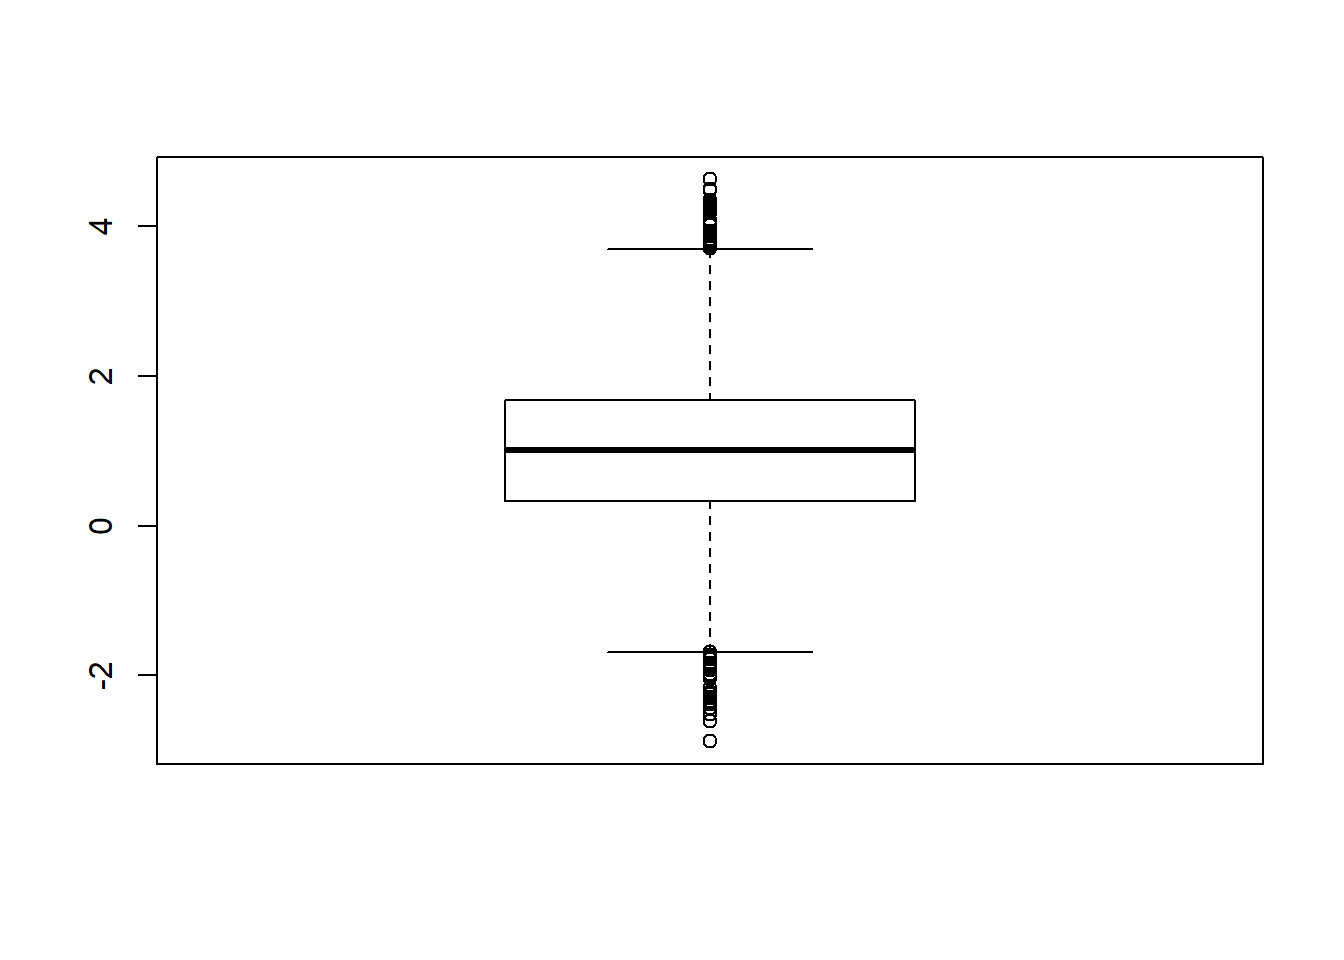
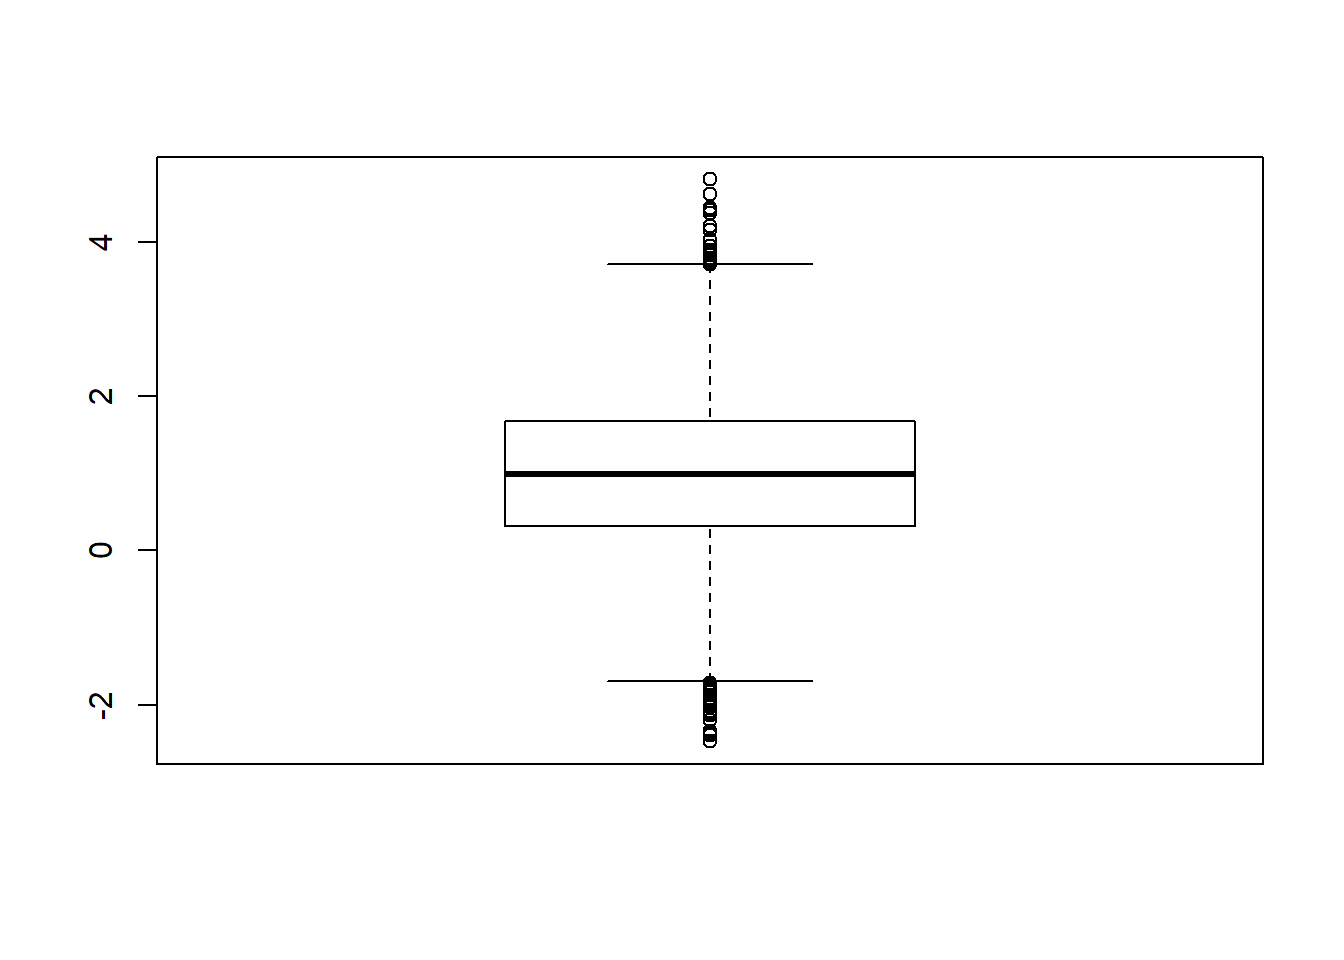
tyytd

diff --git a/content/post/2019-05-10-comando-basicos-r.html b/content/post/2019-05-10-comando-basicos-r.html
@@ -1,14 +1,3 @@
----
-title: Introdução ao R e comandos básicos
-author: Lucas Jordão
-date: '2019-05-10'
-slug: comando-basicos-r
-categories: []
-tags: []
-image:
-  caption: ''
-  focal_point: ''
----
 
 <div id="TOC">
 <ul>
@@ -244,7 +233,7 @@ Auckland, ajudaram Ross Ihaka a desenvolver a versão para Macintosh.</p>
 ## cite it when using it for data analysis. See also
 ## &#39;citation(&quot;pkgname&quot;)&#39; for citing R packages.</code></pre>
 <pre class="r"><code>Sys.time()                  # obtém data e hora exata do sistema</code></pre>
-<pre><code>## [1] &quot;2019-05-16 12:29:48 -03&quot;</code></pre>
+<pre><code>## [1] &quot;2019-05-17 12:27:51 -03&quot;</code></pre>
 </div>
 <div id="operadores-simples-e-funcoes-matematicas" class="section level2">
 <h2>Operadores simples e funções matemáticas</h2>
@@ -422,9 +411,12 @@ w</code></pre>
 </div>
 <div id="character" class="section level3">
 <h3>character</h3>
-<pre class="r"><code>x&lt;-&quot;R&quot;
+<p>Cadeias de caracters (ou <em>string</em> em inglês) são apresentados entre aspas.</p>
+<pre class="r"><code>x &lt;- c(&quot;R&quot;, &quot;plantas&quot;, &quot;animais&quot;, &quot;floresta&quot;, &quot;solo&quot;)
 x</code></pre>
-<pre><code>## [1] &quot;R&quot;</code></pre>
+<pre><code>## [1] &quot;R&quot;        &quot;plantas&quot;  &quot;animais&quot;  &quot;floresta&quot; &quot;solo&quot;</code></pre>
+<pre class="r"><code>class(x)</code></pre>
+<pre><code>## [1] &quot;character&quot;</code></pre>
 </div>
 <div id="valores-logicos" class="section level3">
 <h3>valores lógicos</h3>
@@ -595,7 +587,7 @@ x &lt;- 1
 if(x == 1) {
   Sys.time()
 }</code></pre>
-<pre><code>## [1] &quot;2019-05-16 12:29:50 -03&quot;</code></pre>
+<pre><code>## [1] &quot;2019-05-17 12:27:52 -03&quot;</code></pre>
 <pre class="r"><code>if(x &lt; 0) {
   sinal &lt;- &quot;negativo&quot;
 } else if(x == 0) {
@@ -626,66 +618,66 @@ soma</code></pre>
 <div id="gerando-numeros-aleatorios-e-amostragem" class="section level1">
 <h1>Gerando números aleatórios e amostragem</h1>
 <pre class="r"><code>runif(100)        # Gera números aleatórios entre 0 e 1 com distribuição uniforme</code></pre>
-<pre><code>##   [1] 0.81348869 0.90033203 0.01108802 0.22570830 0.59394047 0.38070118
-##   [7] 0.95170113 0.90666841 0.85341663 0.82783976 0.06352296 0.71373210
-##  [13] 0.70242635 0.85882945 0.70657609 0.68020126 0.99520395 0.88769540
-##  [19] 0.91945904 0.44734676 0.76208309 0.80620432 0.97553711 0.91322879
-##  [25] 0.17278529 0.94089850 0.07704590 0.90035220 0.21249345 0.96273269
-##  [31] 0.17989169 0.61458988 0.30213691 0.32396050 0.16983788 0.81329966
-##  [37] 0.85023259 0.19686273 0.75622577 0.62462427 0.50548882 0.80517428
-##  [43] 0.25421950 0.52276530 0.30494565 0.81781528 0.12783124 0.83343631
-##  [49] 0.51155793 0.90161908 0.55737550 0.89214981 0.93582410 0.36138661
-##  [55] 0.44809016 0.58649418 0.24731638 0.90832557 0.44445453 0.74139452
-##  [61] 0.56840432 0.60630954 0.03830759 0.56125434 0.11336138 0.79098479
-##  [67] 0.72747707 0.67484148 0.21516014 0.47825412 0.07626656 0.37655321
-##  [73] 0.90651746 0.48526118 0.87400812 0.76735274 0.50848190 0.92431958
-##  [79] 0.69084109 0.14614531 0.77072459 0.84050308 0.25270604 0.16985029
-##  [85] 0.56109544 0.80611452 0.41833918 0.19703540 0.91349661 0.21520323
-##  [91] 0.13714338 0.27924298 0.16869682 0.41811005 0.65360122 0.21299221
-##  [97] 0.64453816 0.71794196 0.12966154 0.20380816</code></pre>
+<pre><code>##   [1] 0.91209525 0.08624186 0.11970260 0.03507119 0.58498408 0.76989442
+##   [7] 0.30301051 0.33832107 0.80404081 0.77258586 0.56915699 0.36201141
+##  [13] 0.51336495 0.63177379 0.03974872 0.39273873 0.40960994 0.87390291
+##  [19] 0.09876967 0.22122715 0.28294197 0.88858381 0.96961392 0.79562775
+##  [25] 0.49767878 0.24168552 0.29407379 0.76971319 0.15019638 0.07399540
+##  [31] 0.37682053 0.28138241 0.30447923 0.85948438 0.51714217 0.98374745
+##  [37] 0.71623700 0.73314062 0.96717273 0.75686331 0.57194186 0.47110982
+##  [43] 0.26478441 0.10434104 0.32333545 0.15803669 0.54238249 0.03212499
+##  [49] 0.85056144 0.11613614 0.29323213 0.32514037 0.23283043 0.35642930
+##  [55] 0.36787380 0.88948280 0.59101487 0.39613281 0.22720441 0.03047135
+##  [61] 0.92151338 0.55862235 0.13466872 0.16665201 0.31394230 0.59364566
+##  [67] 0.42856983 0.24613577 0.51463456 0.23998391 0.46323223 0.42371774
+##  [73] 0.63222499 0.53758830 0.26873883 0.44501200 0.15368913 0.40971857
+##  [79] 0.22295271 0.70879550 0.46213303 0.92728716 0.18056995 0.68899252
+##  [85] 0.74840021 0.17837910 0.60727240 0.25956418 0.28436883 0.06704396
+##  [91] 0.03496479 0.17544194 0.79540476 0.06235030 0.82779352 0.86194264
+##  [97] 0.72495874 0.39494637 0.19566880 0.73084845</code></pre>
 <pre class="r"><code>rnorm(100)        # Gera números aleatórios com distribuição normal</code></pre>
-<pre><code>##   [1] -0.266215600  1.428150145 -0.681274020 -0.234190920 -0.180244634
-##   [6] -1.690955782  1.452403566 -2.847163423  0.192995176 -0.833569881
-##  [11]  0.109023993  0.415548334  2.117171279 -0.316229392 -1.209147628
-##  [16] -2.135601469  0.228359532  1.295577191 -0.898790495 -0.867673126
-##  [21] -2.567797037  0.681626045 -0.304372909 -0.401496458 -0.780890144
-##  [26] -0.107460862  0.652477718 -1.351541907  1.870047341 -1.860670267
-##  [31] -0.933055314 -0.959759583  0.134568574  0.301122013 -1.260944122
-##  [36] -0.001971163  0.074019854 -0.313140447 -1.824918089  0.754785006
-##  [41]  1.423565170  0.630631064  0.940131865 -1.541494227 -0.829136973
-##  [46]  0.182566548  0.690191870 -1.408005824  0.981594702 -0.609978847
-##  [51]  1.194751566 -0.411095351  0.603889432 -0.864691841 -0.408683900
-##  [56] -0.631771356 -1.134588444  0.064386161 -0.376642699  1.357088790
-##  [61]  1.624440528 -1.054239826  0.235452324 -0.668769384 -1.452750077
-##  [66] -0.193571461  1.185598568  0.523842106  1.647912311 -0.118263908
-##  [71] -0.310712705  0.325715594  0.052246206 -0.417434767 -0.580252027
-##  [76] -1.736007072  0.835009200  0.012967883  1.016190184  0.723909104
-##  [81] -0.846337155  0.754697787  0.768397515  0.454085133  1.969142580
-##  [86]  1.657908886 -0.208915166  0.812964449 -1.294699803  1.782669164
-##  [91]  1.067133384 -1.593997994 -0.094020794 -0.465248183  0.303727228
-##  [96] -1.171891561 -0.133998293 -0.099915276  0.621334091  0.681645887</code></pre>
+<pre><code>##   [1]  1.48952176  1.18720285 -1.88408099 -0.12796812  0.34227880
+##   [6]  0.50544596 -0.72776273 -1.15888950 -1.08040868  0.72011717
+##  [11] -1.35663536  1.31509668 -2.66789756 -0.48839004  0.79693882
+##  [16] -1.58167137 -1.38969028 -0.87561901 -1.44919171 -1.50940301
+##  [21] -1.08867887 -1.56203315 -0.36729963  0.82052234  0.96430798
+##  [26] -0.56263085 -0.35794847  2.14926500  0.23349119 -0.98546821
+##  [31]  0.02092776 -1.91105138  2.00900150 -0.26290283 -2.05328017
+##  [36]  0.44997702  1.26950616  0.52436360  1.53209001 -0.90307984
+##  [41]  1.26649426  0.63399859  0.21938539  0.34579772 -1.46712982
+##  [46] -0.84501505  0.63120331  0.46887131  0.80519731  0.97375236
+##  [51]  0.91525160 -0.04638912 -0.86537320  0.29818474 -1.36217469
+##  [56] -0.43014766 -1.38538628  0.05083408  0.87664191  0.84320192
+##  [61] -0.42112576 -1.26266789 -0.76368509  1.75389350  2.22194653
+##  [66]  0.21916825 -1.69416688 -1.08405592  1.43798728 -0.80461380
+##  [71] -0.18589009  0.27147074 -0.46812760 -0.42711473  1.82496506
+##  [76]  0.39415583 -0.98839613  0.13399496  0.17178097 -0.93237571
+##  [81] -1.50302970 -0.56187213 -0.82889168 -0.30289901  1.02275194
+##  [86]  0.99902835 -0.93548151 -0.43720451 -0.57421760  0.11092604
+##  [91]  0.56263700  0.08729192  0.16706331  0.39758402 -0.47486701
+##  [96]  0.91027036 -1.74862062  0.72051942 -1.10080413  1.78713095</code></pre>
 <pre class="r"><code>sample(1:100, 4)  # Amostragem</code></pre>
-<pre><code>## [1] 100  67  46  17</code></pre>
+<pre><code>## [1] 22 78 86  1</code></pre>
 <div id="histograma" class="section level2">
 <h2>Histograma</h2>
 <pre class="r"><code>x &lt;- rnorm(n=10000, mean=1, sd=1)
 hist(x, nclass = 40)</code></pre>
-<p><img src="https://lsbjordao.netlify.com/2019-05-10-comando-basicos-r_files/figure-html/histograma-1.png" width="672" /></p>
+<p><img src="2019-05-10-comando-basicos-r_files/figure-html/histograma-1.png" width="672" /></p>
 </div>
 <div id="grafico-de-dispersao" class="section level2">
 <h2>Gráfico de dispersão</h2>
 <pre class="r"><code>plot(x)</code></pre>
-<p><img src="https://lsbjordao.netlify.com/2019-05-10-comando-basicos-r_files/figure-html/plot-1.png" width="672" /></p>
+<p><img src="2019-05-10-comando-basicos-r_files/figure-html/plot-1.png" width="672" /></p>
 </div>
 <div id="barplot" class="section level2">
 <h2>Barplot</h2>
 <pre class="r"><code>barplot(x)</code></pre>
-<p><img src="https://lsbjordao.netlify.com/2019-05-10-comando-basicos-r_files/figure-html/barplot-1.png" width="672" /></p>
+<p><img src="2019-05-10-comando-basicos-r_files/figure-html/barplot-1.png" width="672" /></p>
 </div>
 <div id="boxplot" class="section level2">
 <h2>Boxplot</h2>
 <pre class="r"><code>boxplot(x)</code></pre>
-<p><img src="https://lsbjordao.netlify.com/2019-05-10-comando-basicos-r_files/figure-html/boxplot-1.png" width="672" /></p>
+<p><img src="2019-05-10-comando-basicos-r_files/figure-html/boxplot-1.png" width="672" /></p>
 </div>
 <div id="torta" class="section level2">
 <h2>Torta</h2>
